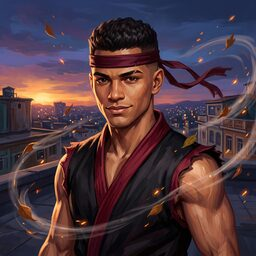
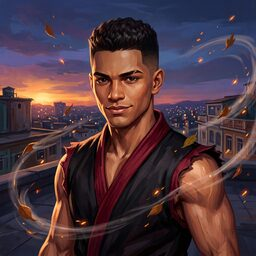
Duelo v35: Neritrans sem faixa

Changed region(s): [[0.3438, 0.1875, 0.9062, 0.4062]]

diff --git a/duelo/service-worker.js b/duelo/service-worker.js
@@ -1,4 +1,4 @@
-const CACHE="duelo-v34";
+const CACHE="duelo-v35";
 const FILES=["./","index.html","manifest.webmanifest","icon-192.png","icon-512.png","icon-512-maskable.png","img/e1.jpg","img/e2.jpg","img/e3.jpg","img/e4.jpg","img/e5.jpg","img/intro_carta.png","img/intro_dragao.jpg","img/m1.jpg","img/m10.jpg","img/m11.jpg","img/m12.jpg","img/m13.jpg","img/m14.jpg","img/m15.jpg","img/m16.jpg","img/m17.jpg","img/m18.jpg","img/m19.jpg","img/m2.jpg","img/m20.jpg","img/m21.jpg","img/m3.jpg","img/m4.jpg","img/m5.jpg","img/m6.jpg","img/m7.jpg","img/m8.jpg","img/m9.jpg","img/n1.jpg","img/n10.jpg","img/n11.jpg","img/n12.jpg","img/n13.jpg","img/n14.jpg","img/n15.jpg","img/n16.jpg","img/n17.jpg","img/n18.jpg","img/n2.jpg","img/n3.jpg","img/n4.jpg","img/n5.jpg","img/n6.jpg","img/n7.jpg","img/n8.jpg","img/n9.jpg","img/p_caio.jpg","img/p_dudu.jpg","img/p_iara.jpg","img/p_milao.jpg","img/p_nando.jpg","img/p_neri.jpg","img/p_otavio.jpg","img/p_pimp.jpg","img/p_snaf.jpg","img/p_telo.jpg","img/p_tiao.jpg","img/p_zeca.jpg","img/s1.jpg","img/s2.jpg","img/s3.jpg","img/s4.jpg","img/s5.jpg","img/s6.jpg","img/s7.jpg","img/s8.jpg","img/s9.jpg","img/t1.jpg","img/t2.jpg","img/t3.jpg","img/t4.jpg","voz/cabeca/atk0.mp3","voz/cabeca/atk1.mp3","voz/cabeca/atk2.mp3","voz/cabeca/atk3.mp3","voz/cabeca/atk4.mp3","voz/cabeca/c_ca10.mp3","voz/cabeca/c_ca11.mp3","voz/cabeca/c_ca12.mp3","voz/cabeca/c_ca9.mp3","voz/cabeca/c_g1.mp3","voz/cabeca/c_g2.mp3","voz/cabeca/c_g3.mp3","voz/cabeca/c_g4.mp3","voz/cabeca/c_g5.mp3","voz/cabeca/c_g6.mp3","voz/cabeca/c_g7.mp3","voz/cabeca/c_g8.mp3","voz/cabeca/c_n20.mp3","voz/cabeca/c_n22.mp3","voz/cabeca/c_n24.mp3","voz/cabeca/c_s2.mp3","voz/cabeca/c_s3.mp3","voz/cabeca/c_s4.mp3","voz/cabeca/c_s5.mp3","voz/cabeca/c_s7.mp3","voz/cabeca/c_t1.mp3","voz/cabeca/c_t2.mp3","voz/cabeca/c_t3.mp3","voz/cabeca/c_t4.mp3","voz/cabeca/dano0.mp3","voz/cabeca/dano1.mp3","voz/cabeca/dano2.mp3","voz/cabeca/dano3.mp3","voz/cabeca/dano4.mp3","voz/cabeca/dano5.mp3","voz/cabeca/ganhei0.mp3","voz/cabeca/inicio0.mp3","voz/cabeca/inv0.mp3","voz/cabeca/inv1.mp3","voz/cabeca/inv2.mp3","voz/cabeca/inv3.mp3","voz/cabeca/inv4.mp3","voz/cabeca/magia0.mp3","voz/cabeca/magia1.mp3","voz/cabeca/magia2.mp3","voz/cabeca/magia3.mp3","voz/cabeca/pass0.mp3","voz/cabeca/pass1.mp3","voz/cabeca/pass2.mp3","voz/cabeca/pass3.mp3","voz/cabeca/perdi0.mp3","voz/cabeca/perdi1.mp3","voz/cabeca/reage0.mp3","voz/cabeca/reage1.mp3","voz/cabeca/reage2.mp3","voz/cabeca/reage3.mp3","voz/cabeca/reage4.mp3","voz/cabeca/reage5.mp3","voz/cabeca/reage6.mp3","voz/cabeca/reage7.mp3","voz/cabeca/susto0.mp3","voz/cabeca/susto1.mp3","voz/cabeca/susto2.mp3","voz/cabeca/susto3.mp3","voz/caio/atk0.mp3","voz/caio/atk1.mp3","voz/caio/atk2.mp3","voz/caio/atk3.mp3","voz/caio/atk4.mp3","voz/caio/c_g1.mp3","voz/caio/c_g2.mp3","voz/caio/c_g3.mp3","voz/caio/c_g4.mp3","voz/caio/c_g5.mp3","voz/caio/c_g7.mp3","voz/caio/c_n3.mp3","voz/caio/c_s1.mp3","voz/caio/c_s3.mp3","voz/caio/c_s4.mp3","voz/caio/c_s5.mp3","voz/caio/c_s6.mp3","voz/caio/c_s7.mp3","voz/caio/c_s8.mp3","voz/caio/c_s9.mp3","voz/caio/c_t1.mp3","voz/caio/c_t2.mp3","voz/caio/c_t3.mp3","voz/caio/c_t4.mp3","voz/caio/dano0.mp3","voz/caio/dano1.mp3","voz/caio/dano2.mp3","voz/caio/dano3.mp3","voz/caio/dano4.mp3","voz/caio/dano5.mp3","voz/caio/ganhei0.mp3","voz/caio/inicio0.mp3","voz/caio/inv0.mp3","voz/caio/inv1.mp3","voz/caio/inv2.mp3","voz/caio/inv3.mp3","voz/caio/inv4.mp3","voz/caio/magia0.mp3","voz/caio/magia1.mp3","voz/caio/magia2.mp3","voz/caio/magia3.mp3","voz/caio/pass0.mp3","voz/caio/pass1.mp3","voz/caio/pass2.mp3","voz/caio/pass3.mp3","voz/caio/perdi0.mp3","voz/caio/perdi1.mp3","voz/caio/reage0.mp3","voz/caio/reage1.mp3","voz/caio/reage2.mp3","voz/caio/reage3.mp3","voz/caio/reage4.mp3","voz/caio/reage5.mp3","voz/caio/reage6.mp3","voz/caio/reage7.mp3","voz/caio/susto0.mp3","voz/caio/susto1.mp3","voz/caio/susto2.mp3","voz/caio/susto3.mp3","voz/conde/atk0.mp3","voz/conde/atk1.mp3","voz/conde/atk2.mp3","voz/conde/atk3.mp3","voz/conde/atk4.mp3","voz/conde/c_b2.mp3","voz/conde/c_b3.mp3","voz/conde/c_b4.mp3","voz/conde/c_g1.mp3","voz/conde/c_g2.mp3","voz/conde/c_g3.mp3","voz/conde/c_g4.mp3","voz/conde/c_g5.mp3","voz/conde/c_g6.mp3","voz/conde/c_g7.mp3","voz/conde/c_n18.mp3","voz/conde/c_n3.mp3","voz/conde/c_s1.mp3","voz/conde/c_s3.mp3","voz/conde/c_s4.mp3","voz/conde/c_s5.mp3","voz/conde/c_s6.mp3","voz/conde/c_s7.mp3","voz/conde/c_s8.mp3","voz/conde/c_s9.mp3","voz/conde/c_t1.mp3","voz/conde/c_t2.mp3","voz/conde/c_t3.mp3","voz/conde/c_t4.mp3","voz/conde/dano0.mp3","voz/conde/dano1.mp3","voz/conde/dano2.mp3","voz/conde/dano3.mp3","voz/conde/dano4.mp3","voz/conde/dano5.mp3","voz/conde/ganhei0.mp3","voz/conde/inicio0.mp3","voz/conde/inv0.mp3","voz/conde/inv1.mp3","voz/conde/inv2.mp3","voz/conde/inv3.mp3","voz/conde/inv4.mp3","voz/conde/magia0.mp3","voz/conde/magia1.mp3","voz/conde/magia2.mp3","voz/conde/magia3.mp3","voz/conde/pass0.mp3","voz/conde/pass1.mp3","voz/conde/pass2.mp3","voz/conde/pass3.mp3","voz/conde/perdi0.mp3","voz/conde/perdi1.mp3","voz/conde/reage0.mp3","voz/conde/reage1.mp3","voz/conde/reage2.mp3","voz/conde/reage3.mp3","voz/conde/reage4.mp3","voz/conde/reage5.mp3","voz/conde/reage6.mp3","voz/conde/reage7.mp3","voz/conde/susto0.mp3","voz/conde/susto1.mp3","voz/conde/susto2.mp3","voz/conde/susto3.mp3","voz/dudu/atk0.mp3","voz/dudu/atk1.mp3","voz/dudu/atk2.mp3","voz/dudu/atk3.mp3","voz/dudu/atk4.mp3","voz/dudu/c_du10.mp3","voz/dudu/c_du11.mp3","voz/dudu/c_du12.mp3","voz/dudu/c_du9.mp3","voz/dudu/c_g1.mp3","voz/dudu/c_g2.mp3","voz/dudu/c_g3.mp3","voz/dudu/c_g4.mp3","voz/dudu/c_g5.mp3","voz/dudu/c_g6.mp3","voz/dudu/c_g7.mp3","voz/dudu/c_n11.mp3","voz/dudu/c_n7.mp3","voz/dudu/c_s2.mp3","voz/dudu/c_s3.mp3","voz/dudu/c_s4.mp3","voz/dudu/c_s5.mp3","voz/dudu/c_s7.mp3","voz/dudu/c_s8.mp3","voz/dudu/c_s9.mp3","voz/dudu/c_t1.mp3","voz/dudu/c_t2.mp3","voz/dudu/c_t3.mp3","voz/dudu/c_t4.mp3","voz/dudu/dano0.mp3","voz/dudu/dano1.mp3","voz/dudu/dano2.mp3","voz/dudu/dano3.mp3","voz/dudu/dano4.mp3","voz/dudu/dano5.mp3","voz/dudu/ganhei0.mp3","voz/dudu/inicio0.mp3","voz/dudu/inv0.mp3","voz/dudu/inv1.mp3","voz/dudu/inv2.mp3","voz/dudu/inv3.mp3","voz/dudu/inv4.mp3","voz/dudu/magia0.mp3","voz/dudu/magia1.mp3","voz/dudu/magia2.mp3","voz/dudu/magia3.mp3","voz/dudu/pass0.mp3","voz/dudu/pass1.mp3","voz/dudu/pass2.mp3","voz/dudu/pass3.mp3","voz/dudu/perdi0.mp3","voz/dudu/perdi1.mp3","voz/dudu/reage0.mp3","voz/dudu/reage1.mp3","voz/dudu/reage2.mp3","voz/dudu/reage3.mp3","voz/dudu/reage4.mp3","voz/dudu/reage5.mp3","voz/dudu/reage6.mp3","voz/dudu/reage7.mp3","voz/dudu/susto0.mp3","voz/dudu/susto1.mp3","voz/dudu/susto2.mp3","voz/dudu/susto3.mp3","voz/iara/atk0.mp3","voz/iara/atk1.mp3","voz/iara/atk2.mp3","voz/iara/atk3.mp3","voz/iara/atk4.mp3","voz/iara/c_g1.mp3","voz/iara/c_g2.mp3","voz/iara/c_g3.mp3","voz/iara/c_g4.mp3","voz/iara/c_g5.mp3","voz/iara/c_g6.mp3","voz/iara/c_g7.mp3","voz/iara/c_g8.mp3","voz/iara/c_i6.mp3","voz/iara/c_i7.mp3","voz/iara/c_n24.mp3","voz/iara/c_n30.mp3","voz/iara/c_s3.mp3","voz/iara/c_s4.mp3","voz/iara/c_s5.mp3","voz/iara/c_s6.mp3","voz/iara/c_s7.mp3","voz/iara/c_s8.mp3","voz/iara/c_s9.mp3","voz/iara/c_t1.mp3","voz/iara/c_t2.mp3","voz/iara/c_t3.mp3","voz/iara/c_t4.mp3","voz/iara/dano0.mp3","voz/iara/dano1.mp3","voz/iara/dano2.mp3","voz/iara/dano3.mp3","voz/iara/dano4.mp3","voz/iara/dano5.mp3","voz/iara/ganhei0.mp3","voz/iara/inicio0.mp3","voz/iara/inv0.mp3","voz/iara/inv1.mp3","voz/iara/inv2.mp3","voz/iara/inv3.mp3","voz/iara/inv4.mp3","voz/iara/magia0.mp3","voz/iara/magia1.mp3","voz/iara/magia2.mp3","voz/iara/magia3.mp3","voz/iara/pass0.mp3","voz/iara/pass1.mp3","voz/iara/pass2.mp3","voz/iara/pass3.mp3","voz/iara/perdi0.mp3","voz/iara/perdi1.mp3","voz/iara/reage0.mp3","voz/iara/reage1.mp3","voz/iara/reage2.mp3","voz/iara/reage3.mp3","voz/iara/reage4.mp3","voz/iara/reage5.mp3","voz/iara/reage6.mp3","voz/iara/reage7.mp3","voz/iara/susto0.mp3","voz/iara/susto1.mp3","voz/iara/susto2.mp3","voz/iara/susto3.mp3","voz/nando/atk0.mp3","voz/nando/atk1.mp3","voz/nando/atk2.mp3","voz/nando/atk3.mp3","voz/nando/atk4.mp3","voz/nando/c_d6.mp3","voz/nando/c_g1.mp3","voz/nando/c_g2.mp3","voz/nando/c_g3.mp3","voz/nando/c_g4.mp3","voz/nando/c_g5.mp3","voz/nando/c_g6.mp3","voz/nando/c_g7.mp3","voz/nando/c_g8.mp3","voz/nando/c_n20.mp3","voz/nando/c_n22.mp3","voz/nando/c_n23.mp3","voz/nando/c_n24.mp3","voz/nando/c_s2.mp3","voz/nando/c_s3.mp3","voz/nando/c_s4.mp3","voz/nando/c_s5.mp3","voz/nando/c_s7.mp3","voz/nando/c_s8.mp3","voz/nando/c_t1.mp3","voz/nando/c_t2.mp3","voz/nando/c_t3.mp3","voz/nando/c_t4.mp3","voz/nando/dano0.mp3","voz/nando/dano1.mp3","voz/nando/dano2.mp3","voz/nando/dano3.mp3","voz/nando/dano4.mp3","voz/nando/dano5.mp3","voz/nando/ganhei0.mp3","voz/nando/inicio0.mp3","voz/nando/inv0.mp3","voz/nando/inv1.mp3","voz/nando/inv2.mp3","voz/nando/inv3.mp3","voz/nando/inv4.mp3","voz/nando/magia0.mp3","voz/nando/magia1.mp3","voz/nando/magia2.mp3","voz/nando/magia3.mp3","voz/nando/pass0.mp3","voz/nando/pass1.mp3","voz/nando/pass2.mp3","voz/nando/pass3.mp3","voz/nando/perdi0.mp3","voz/nando/perdi1.mp3","voz/nando/reage0.mp3","voz/nando/reage1.mp3","voz/nando/reage2.mp3","voz/nando/reage3.mp3","voz/nando/reage4.mp3","voz/nando/reage5.mp3","voz/nando/reage6.mp3","voz/nando/reage7.mp3","voz/nando/susto0.mp3","voz/nando/susto1.mp3","voz/nando/susto2.mp3","voz/nando/susto3.mp3","voz/neri/atk0.mp3","voz/neri/atk1.mp3","voz/neri/atk2.mp3","voz/neri/atk3.mp3","voz/neri/atk4.mp3","voz/neri/c_g1.mp3","voz/neri/c_g2.mp3","voz/neri/c_g3.mp3","voz/neri/c_g4.mp3","voz/neri/c_g5.mp3","voz/neri/c_g6.mp3","voz/neri/c_g7.mp3","voz/neri/c_g8.mp3","voz/neri/c_n24.mp3","voz/neri/c_ne10.mp3","voz/neri/c_ne11.mp3","voz/neri/c_ne12.mp3","voz/neri/c_ne9.mp3","voz/neri/c_s3.mp3","voz/neri/c_s4.mp3","voz/neri/c_s5.mp3","voz/neri/c_s6.mp3","voz/neri/c_s7.mp3","voz/neri/c_s8.mp3","voz/neri/c_s9.mp3","voz/neri/c_t1.mp3","voz/neri/c_t2.mp3","voz/neri/c_t3.mp3","voz/neri/c_t4.mp3","voz/neri/dano0.mp3","voz/neri/dano1.mp3","voz/neri/dano2.mp3","voz/neri/dano3.mp3","voz/neri/dano4.mp3","voz/neri/dano5.mp3","voz/neri/ganhei0.mp3","voz/neri/inicio0.mp3","voz/neri/inv0.mp3","voz/neri/inv1.mp3","voz/neri/inv2.mp3","voz/neri/inv3.mp3","voz/neri/inv4.mp3","voz/neri/magia0.mp3","voz/neri/magia1.mp3","voz/neri/magia2.mp3","voz/neri/magia3.mp3","voz/neri/pass0.mp3","voz/neri/pass1.mp3","voz/neri/pass2.mp3","voz/neri/pass3.mp3","voz/neri/perdi0.mp3","voz/neri/perdi1.mp3","voz/neri/reage0.mp3","voz/neri/reage1.mp3","voz/neri/reage2.mp3","voz/neri/reage3.mp3","voz/neri/reage4.mp3","voz/neri/reage5.mp3","voz/neri/reage6.mp3","voz/neri/reage7.mp3","voz/neri/susto0.mp3","voz/neri/susto1.mp3","voz/neri/susto2.mp3","voz/neri/susto3.mp3","voz/otavio/atk0.mp3","voz/otavio/atk1.mp3","voz/otavio/atk2.mp3","voz/otavio/atk3.mp3","voz/otavio/atk4.mp3","voz/otavio/c_g1.mp3","voz/otavio/c_g2.mp3","voz/otavio/c_g3.mp3","voz/otavio/c_g4.mp3","voz/otavio/c_g5.mp3","voz/otavio/c_g6.mp3","voz/otavio/c_g7.mp3","voz/otavio/c_n7.mp3","voz/otavio/c_s1.mp3","voz/otavio/c_s2.mp3","voz/otavio/c_s3.mp3","voz/otavio/c_s4.mp3","voz/otavio/c_s5.mp3","voz/otavio/c_s7.mp3","voz/otavio/c_s8.mp3","voz/otavio/c_s9.mp3","voz/otavio/c_t1.mp3","voz/otavio/c_t2.mp3","voz/otavio/c_t3.mp3","voz/otavio/c_t4.mp3","voz/otavio/dano0.mp3","voz/otavio/dano1.mp3","voz/otavio/dano2.mp3","voz/otavio/dano3.mp3","voz/otavio/dano4.mp3","voz/otavio/dano5.mp3","voz/otavio/ganhei0.mp3","voz/otavio/inicio0.mp3","voz/otavio/inv0.mp3","voz/otavio/inv1.mp3","voz/otavio/inv2.mp3","voz/otavio/inv3.mp3","voz/otavio/inv4.mp3","voz/otavio/magia0.mp3","voz/otavio/magia1.mp3","voz/otavio/magia2.mp3","voz/otavio/magia3.mp3","voz/otavio/pass0.mp3","voz/otavio/pass1.mp3","voz/otavio/pass2.mp3","voz/otavio/pass3.mp3","voz/otavio/perdi0.mp3","voz/otavio/perdi1.mp3","voz/otavio/reage0.mp3","voz/otavio/reage1.mp3","voz/otavio/reage2.mp3","voz/otavio/reage3.mp3","voz/otavio/reage4.mp3","voz/otavio/reage5.mp3","voz/otavio/reage6.mp3","voz/otavio/reage7.mp3","voz/otavio/susto0.mp3","voz/otavio/susto1.mp3","voz/otavio/susto2.mp3","voz/otavio/susto3.mp3","voz/pimp/atk0.mp3","voz/pimp/atk1.mp3","voz/pimp/atk2.mp3","voz/pimp/atk3.mp3","voz/pimp/atk4.mp3","voz/pimp/c_g1.mp3","voz/pimp/c_g2.mp3","voz/pimp/c_g3.mp3","voz/pimp/c_g4.mp3","voz/pimp/c_g5.mp3","voz/pimp/c_g6.mp3","voz/pimp/c_g7.mp3","voz/pimp/c_g8.mp3","voz/pimp/c_n23.mp3","voz/pimp/c_n24.mp3","voz/pimp/c_pi10.mp3","voz/pimp/c_pi11.mp3","voz/pimp/c_pi12.mp3","voz/pimp/c_pi9.mp3","voz/pimp/c_s2.mp3","voz/pimp/c_s3.mp3","voz/pimp/c_s4.mp3","voz/pimp/c_s5.mp3","voz/pimp/c_s7.mp3","voz/pimp/c_s8.mp3","voz/pimp/c_s9.mp3","voz/pimp/c_t1.mp3","voz/pimp/c_t2.mp3","voz/pimp/c_t3.mp3","voz/pimp/c_t4.mp3","voz/pimp/dano0.mp3","voz/pimp/dano1.mp3","voz/pimp/dano2.mp3","voz/pimp/dano3.mp3","voz/pimp/dano4.mp3","voz/pimp/dano5.mp3","voz/pimp/ganhei0.mp3","voz/pimp/inicio0.mp3","voz/pimp/inv0.mp3","voz/pimp/inv1.mp3","voz/pimp/inv2.mp3","voz/pimp/inv3.mp3","voz/pimp/inv4.mp3","voz/pimp/magia0.mp3","voz/pimp/magia1.mp3","voz/pimp/magia2.mp3","voz/pimp/magia3.mp3","voz/pimp/pass0.mp3","voz/pimp/pass1.mp3","voz/pimp/pass2.mp3","voz/pimp/pass3.mp3","voz/pimp/perdi0.mp3","voz/pimp/perdi1.mp3","voz/pimp/reage0.mp3","voz/pimp/reage1.mp3","voz/pimp/reage2.mp3","voz/pimp/reage3.mp3","voz/pimp/reage4.mp3","voz/pimp/reage5.mp3","voz/pimp/reage6.mp3","voz/pimp/reage7.mp3","voz/pimp/susto0.mp3","voz/pimp/susto1.mp3","voz/pimp/susto2.mp3","voz/pimp/susto3.mp3","voz/snaf/atk0.mp3","voz/snaf/atk1.mp3","voz/snaf/atk2.mp3","voz/snaf/atk3.mp3","voz/snaf/atk4.mp3","voz/snaf/c_g1.mp3","voz/snaf/c_g2.mp3","voz/snaf/c_g3.mp3","voz/snaf/c_g4.mp3","voz/snaf/c_g5.mp3","voz/snaf/c_g6.mp3","voz/snaf/c_g7.mp3","voz/snaf/c_g8.mp3","voz/snaf/c_n24.mp3","voz/snaf/c_s2.mp3","voz/snaf/c_s3.mp3","voz/snaf/c_s4.mp3","voz/snaf/c_s5.mp3","voz/snaf/c_s7.mp3","voz/snaf/c_s8.mp3","voz/snaf/c_s9.mp3","voz/snaf/c_sn10.mp3","voz/snaf/c_sn11.mp3","voz/snaf/c_sn12.mp3","voz/snaf/c_sn9.mp3","voz/snaf/c_t1.mp3","voz/snaf/c_t2.mp3","voz/snaf/c_t3.mp3","voz/snaf/c_t4.mp3","voz/snaf/dano0.mp3","voz/snaf/dano1.mp3","voz/snaf/dano2.mp3","voz/snaf/dano3.mp3","voz/snaf/dano4.mp3","voz/snaf/dano5.mp3","voz/snaf/ganhei0.mp3","voz/snaf/inicio0.mp3","voz/snaf/inv0.mp3","voz/snaf/inv1.mp3","voz/snaf/inv2.mp3","voz/snaf/inv3.mp3","voz/snaf/inv4.mp3","voz/snaf/magia0.mp3","voz/snaf/magia1.mp3","voz/snaf/magia2.mp3","voz/snaf/magia3.mp3","voz/snaf/pass0.mp3","voz/snaf/pass1.mp3","voz/snaf/pass2.mp3","voz/snaf/pass3.mp3","voz/snaf/perdi0.mp3","voz/snaf/perdi1.mp3","voz/snaf/reage0.mp3","voz/snaf/reage1.mp3","voz/snaf/reage2.mp3","voz/snaf/reage3.mp3","voz/snaf/reage4.mp3","voz/snaf/reage5.mp3","voz/snaf/reage6.mp3","voz/snaf/reage7.mp3","voz/snaf/susto0.mp3","voz/snaf/susto1.mp3","voz/snaf/susto2.mp3","voz/snaf/susto3.mp3","voz/telo/atk0.mp3","voz/telo/atk1.mp3","voz/telo/atk2.mp3","voz/telo/atk3.mp3","voz/telo/atk4.mp3","voz/telo/c_g1.mp3","voz/telo/c_g2.mp3","voz/telo/c_g3.mp3","voz/telo/c_g4.mp3","voz/telo/c_g5.mp3","voz/telo/c_g6.mp3","voz/telo/c_g7.mp3","voz/telo/c_g8.mp3","voz/telo/c_n24.mp3","voz/telo/c_s1.mp3","voz/telo/c_s3.mp3","voz/telo/c_s4.mp3","voz/telo/c_s5.mp3","voz/telo/c_s7.mp3","voz/telo/c_s8.mp3","voz/telo/c_t1.mp3","voz/telo/c_t2.mp3","voz/telo/c_t3.mp3","voz/telo/c_t4.mp3","voz/telo/c_te10.mp3","voz/telo/c_te11.mp3","voz/telo/c_te12.mp3","voz/telo/c_te9.mp3","voz/telo/dano0.mp3","voz/telo/dano1.mp3","voz/telo/dano2.mp3","voz/telo/dano3.mp3","voz/telo/dano4.mp3","voz/telo/dano5.mp3","voz/telo/ganhei0.mp3","voz/telo/inicio0.mp3","voz/telo/inv0.mp3","voz/telo/inv1.mp3","voz/telo/inv2.mp3","voz/telo/inv3.mp3","voz/telo/inv4.mp3","voz/telo/magia0.mp3","voz/telo/magia1.mp3","voz/telo/magia2.mp3","voz/telo/magia3.mp3","voz/telo/pass0.mp3","voz/telo/pass1.mp3","voz/telo/pass2.mp3","voz/telo/pass3.mp3","voz/telo/perdi0.mp3","voz/telo/perdi1.mp3","voz/telo/reage0.mp3","voz/telo/reage1.mp3","voz/telo/reage2.mp3","voz/telo/reage3.mp3","voz/telo/reage4.mp3","voz/telo/reage5.mp3","voz/telo/reage6.mp3","voz/telo/reage7.mp3","voz/telo/susto0.mp3","voz/telo/susto1.mp3","voz/telo/susto2.mp3","voz/telo/susto3.mp3","voz/tiao/atk0.mp3","voz/tiao/atk1.mp3","voz/tiao/atk2.mp3","voz/tiao/atk3.mp3","voz/tiao/atk4.mp3","voz/tiao/c_g1.mp3","voz/tiao/c_g2.mp3","voz/tiao/c_g3.mp3","voz/tiao/c_g4.mp3","voz/tiao/c_g5.mp3","voz/tiao/c_g6.mp3","voz/tiao/c_g7.mp3","voz/tiao/c_g8.mp3","voz/tiao/c_h7.mp3","voz/tiao/c_h8.mp3","voz/tiao/c_n11.mp3","voz/tiao/c_n12.mp3","voz/tiao/c_s3.mp3","voz/tiao/c_s4.mp3","voz/tiao/c_s5.mp3","voz/tiao/c_s7.mp3","voz/tiao/c_s8.mp3","voz/tiao/c_s9.mp3","voz/tiao/c_t1.mp3","voz/tiao/c_t2.mp3","voz/tiao/c_t3.mp3","voz/tiao/c_t4.mp3","voz/tiao/dano0.mp3","voz/tiao/dano1.mp3","voz/tiao/dano2.mp3","voz/tiao/dano3.mp3","voz/tiao/dano4.mp3","voz/tiao/dano5.mp3","voz/tiao/ganhei0.mp3","voz/tiao/inicio0.mp3","voz/tiao/inv0.mp3","voz/tiao/inv1.mp3","voz/tiao/inv2.mp3","voz/tiao/inv3.mp3","voz/tiao/inv4.mp3","voz/tiao/magia0.mp3","voz/tiao/magia1.mp3","voz/tiao/magia2.mp3","voz/tiao/magia3.mp3","voz/tiao/pass0.mp3","voz/tiao/pass1.mp3","voz/tiao/pass2.mp3","voz/tiao/pass3.mp3","voz/tiao/perdi0.mp3","voz/tiao/perdi1.mp3","voz/tiao/reage0.mp3","voz/tiao/reage1.mp3","voz/tiao/reage2.mp3","voz/tiao/reage3.mp3","voz/tiao/reage4.mp3","voz/tiao/reage5.mp3","voz/tiao/reage6.mp3","voz/tiao/reage7.mp3","voz/tiao/susto0.mp3","voz/tiao/susto1.mp3","voz/tiao/susto2.mp3","voz/tiao/susto3.mp3","voz/zeca/atk0.mp3","voz/zeca/atk1.mp3","voz/zeca/atk2.mp3","voz/zeca/atk3.mp3","voz/zeca/atk4.mp3","voz/zeca/c_g1.mp3","voz/zeca/c_g2.mp3","voz/zeca/c_g3.mp3","voz/zeca/c_g4.mp3","voz/zeca/c_g5.mp3","voz/zeca/c_g6.mp3","voz/zeca/c_g7.mp3","voz/zeca/c_g8.mp3","voz/zeca/c_n12.mp3","voz/zeca/c_n18.mp3","voz/zeca/c_s3.mp3","voz/zeca/c_s4.mp3","voz/zeca/c_s5.mp3","voz/zeca/c_s6.mp3","voz/zeca/c_s7.mp3","voz/zeca/c_s8.mp3","voz/zeca/c_s9.mp3","voz/zeca/c_t1.mp3","voz/zeca/c_t2.mp3","voz/zeca/c_t3.mp3","voz/zeca/c_t4.mp3","voz/zeca/c_z6.mp3","voz/zeca/c_z7.mp3","voz/zeca/c_z8.mp3","voz/zeca/dano0.mp3","voz/zeca/dano1.mp3","voz/zeca/dano2.mp3","voz/zeca/dano3.mp3","voz/zeca/dano4.mp3","voz/zeca/dano5.mp3","voz/zeca/ganhei0.mp3","voz/zeca/inicio0.mp3","voz/zeca/inv0.mp3","voz/zeca/inv1.mp3","voz/zeca/inv2.mp3","voz/zeca/inv3.mp3","voz/zeca/inv4.mp3","voz/zeca/magia0.mp3","voz/zeca/magia1.mp3","voz/zeca/magia2.mp3","voz/zeca/magia3.mp3","voz/zeca/pass0.mp3","voz/zeca/pass1.mp3","voz/zeca/pass2.mp3","voz/zeca/pass3.mp3","voz/zeca/perdi0.mp3","voz/zeca/perdi1.mp3","voz/zeca/reage0.mp3","voz/zeca/reage1.mp3","voz/zeca/reage2.mp3","voz/zeca/reage3.mp3","voz/zeca/reage4.mp3","voz/zeca/reage5.mp3","voz/zeca/reage6.mp3","voz/zeca/reage7.mp3","voz/zeca/susto0.mp3","voz/zeca/susto1.mp3","voz/zeca/susto2.mp3","voz/zeca/susto3.mp3"];
 self.addEventListener("install",e=>{self.skipWaiting();e.waitUntil(caches.open(CACHE).then(c=>Promise.all(FILES.map(f=>c.add(f).catch(()=>{})))));});
 self.addEventListener("activate",e=>{e.waitUntil(caches.keys().then(k=>Promise.all(k.filter(x=>x!==CACHE).map(x=>caches.delete(x)))).then(()=>self.clients.claim()));});

diff --git a/duelo/index.html b/duelo/index.html
@@ -113,7 +113,7 @@ input{font-size:18px;padding:10px;border-radius:10px;border:0;width:100%;text-al
   <button class="sec" onclick="regras()">📖 Regras</button>
   <div id="lobby" class="esc" style="margin-top:10px"></div>
  </div>
- <div id="verTag" style="font-size:11px;opacity:.6">versão 34</div>
+ <div id="verTag" style="font-size:11px;opacity:.6">versão 35</div>
 </div>
 
 <div id="escolha" class="esc"><h2 style="color:#fbbf24">Escolha seu duelista</h2><div id="persGrid"></div><button class="sec" onclick="voltaMenu()">⬅ Voltar</button></div>
